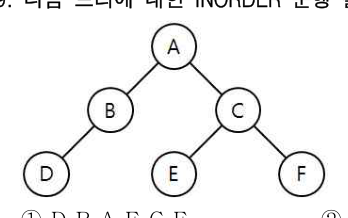
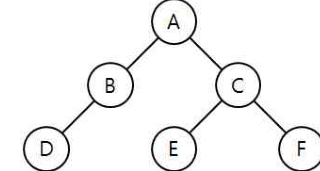
2018-2 자료 이미지 원본 정합성 보정

diff --git a/public/index.html b/public/index.html
@@ -8,8 +8,8 @@
   <meta name="apple-mobile-web-app-status-bar-style" content="black-translucent">
   <meta name="theme-color" content="#0f1117" id="meta-theme-color">
   <title>정보처리기사 필기 CBT</title>
-  <link rel="stylesheet" href="/css/style.css?v=26-07-26-10">
-  <link rel="stylesheet" href="/vendor/katex/katex.min.css?v=26-07-26-10">
+  <link rel="stylesheet" href="/css/style.css?v=26-07-26-11">
+  <link rel="stylesheet" href="/vendor/katex/katex.min.css?v=26-07-26-11">
   <script>
     // 테마 깜빡임 방지: JS 로드 전에 테마 적용
     (function() {
@@ -39,14 +39,14 @@
     <span>학습용 - 본인 학습 목적으로만 사용하세요</span>
     <span id="app-version" class="app-version"></span>
   </footer>
-  <script src="/vendor/katex/katex.min.js?v=26-07-26-10"></script>
-  <script src="/vendor/katex/auto-render.min.js?v=26-07-26-10"></script>
-  <script src="/js/storage.js?v=26-07-26-10"></script>
-  <script src="/js/util.js?v=26-07-26-10"></script>
-  <script src="/js/router.js?v=26-07-26-10"></script>
-  <script src="/js/wrong-export.js?v=26-07-26-10"></script>
-  <script src="/js/views.js?v=26-07-26-10"></script>
-  <script src="/js/exam.js?v=26-07-26-10"></script>
-  <script src="/js/main.js?v=26-07-26-10"></script>
+  <script src="/vendor/katex/katex.min.js?v=26-07-26-11"></script>
+  <script src="/vendor/katex/auto-render.min.js?v=26-07-26-11"></script>
+  <script src="/js/storage.js?v=26-07-26-11"></script>
+  <script src="/js/util.js?v=26-07-26-11"></script>
+  <script src="/js/router.js?v=26-07-26-11"></script>
+  <script src="/js/wrong-export.js?v=26-07-26-11"></script>
+  <script src="/js/views.js?v=26-07-26-11"></script>
+  <script src="/js/exam.js?v=26-07-26-11"></script>
+  <script src="/js/main.js?v=26-07-26-11"></script>
 </body>
 </html>

diff --git a/정보처리기사CBT_지침체계/08_운영기록/changelog.md b/정보처리기사CBT_지침체계/08_운영기록/changelog.md
@@ -105,3 +105,4 @@
 | 2026-07-26 | GitHub main·Vercel 프로덕션 | 현행 소스 재배포를 위해 버전 `26-07-26-8`로 갱신. 일반 `npm run deploy` 배포 `dpl_344eNsPfCW9Sqf9Zs4dGRaEcDJte`가 4분 이상 Building에 정체되어 운영 alias가 없는 상태에서 `vercel rm --safe --yes`로 제거했고, `vercel build --prod --yes` + `vercel deploy --prebuilt --prod --yes`로 prebuilt 프로덕션 배포 `dpl_9ikd4Hy8gmRyUrFQzgXTZKuigqf9` 성공. 운영 별칭에서 `/version.json` `26-07-26-8`, 회차 29·유형 5, 2016-2 100문항, 오류 로그 0건 확인 | 사용자 지시("배포 후 다음 진행")의 선행 배포 이행 및 멈춘 비활성 배포 제거 기록 | — |
 | 2026-07-26 | data/exam_2018-1.json, public/images/2018-1_q82.png, GitHub main·Vercel 프로덕션 | 2018년 1회 PDF 자동 후보·육안 확정 문항 보정: Q15 `폴링`, Q21 `부동 소수점`·`fixed point data`, Q22 마이크로오퍼레이션 줄바꿈·화살표, Q24 `클록`, Q33 수식 보기, Q37 화살표, Q44 `<Task List>` 표 제목·SJF 해설, Q51 원문 `??`, Q59 `ls`·`fsck`, Q82 이미지 혼입 제거, Q89 `SMTP` 정정. 공식 정답표 100/100 일치, 표 평탄화 후보 0건, 전체 JSON·이미지 경로·API·Node 테스트 통과. 버전 `26-07-26-9` prebuilt 배포 `dpl_AkjsLxXzVMcdTUEeTmjK3S6zWoiE` 완료, 운영 별칭에서 `/version.json`, 2018-1 100문항, Q59·Q44·Q82, 오류 로그 0건 확인. 단, 2018-1 전체 문자 단위 전수 대조는 미완료 | 사용자 지시("배포 후 다음 진행")에 따른 2단계 다음 단위 실행 | 검수보고_2026-07-26_2018-1_확정후보_자료정답원본보정 |
 | 2026-07-26 | data/exam_2018-1.json, 08_운영기록/검수보고 | 2018년 1회 100문항을 PDF 1~6쪽 좌·우 칼럼 재구성 텍스트와 자동 대조하고 PDF 렌더 이미지로 확정 후보를 확인. Q24 `동시 액세스`, Q32 `태스크`, Q37 단서, Q45 `명령은?`, Q56 보기 ④, Q59·Q60 `디렉터리`, Q64 자료 bullet, Q65 `검사 자료`, Q83 `전송할 데이터`, Q87 `논리 주소를 가지고`, Q98 `재전송이 가능`을 원본에 맞게 정정하고 Q45·Q60·Q64 해설을 보완. 수정 후 자동 후보는 Q10 중간점 코드와 Q33 수식 표현 5건만 남아 정상 판단. 공식 정답표 100/100, 전체 JSON·표 평탄화 후보·Node 테스트·로컬 API 통과. 배포는 수행하지 않음 | 사용자 지시("다음진행")에 따른 2018-1 추가 원문·보기 대조 | 검수보고_2026-07-26_2018-1_100문항_원문보기자동대조 |
+| 2026-07-26 | public/images/2018-2_q6.png·q19.png, 08_운영기록/검수보고 | 2018년 2회 100문항을 PDF 1~6쪽 좌·우 칼럼 재구성 텍스트와 정답표로 대조. 원문·보기 실제 불일치 0건, 정답 불일치 0건, Q42·Q45 HTML 표 셀 누락 0건 확인. Q6·Q19 이미지에 섞인 문제 문장·보기 일부를 제거해 트리 그림만 남김. 표 평탄화 후보 0건, 전체 이미지 경로·Node 테스트·로컬 API 통과. 배포는 수행하지 않음 | 사용자 지시("배포 후 다음진행")에 따른 2단계 다음 파일 단위 실행 | 검수보고_2026-07-26_2018-2_100문항_원문정답자료검수 |

diff --git a/정보처리기사CBT_지침체계/08_운영기록/검수보고_2026-07-26_2018-2_100문항_원문정답자료검수.md b/정보처리기사CBT_지침체계/08_운영기록/검수보고_2026-07-26_2018-2_100문항_원문정답자료검수.md
@@ -1,0 +1,51 @@
+# 검수보고_2026-07-26_2018-2_100문항_원문정답자료검수
+
+## 1. 검수 범위
+
+- 원본 PDF: `정보처리기사 문제/2018년2회_기사필기_기출문제.pdf`
+- 대상 데이터: `data/exam_2018-2.json`
+- 대상 이미지: `public/images/2018-2_q6.png`, `public/images/2018-2_q19.png`
+- 검수 대상: Q1~Q100의 `stem`, `options`, `answer`, 표·이미지 연결
+- 배포 여부: 이번 보고 단위에서는 배포하지 않음
+
+## 2. 검수 방법
+
+1. PDF 1~7쪽을 PNG로 렌더링했다.
+2. PDF 1~6쪽을 `pdfplumber`로 좌·우 칼럼 분리 추출해 Q1~Q100 문항 블록을 재구성했다.
+3. JSON의 `stem`, 4개 `options`를 PDF 추출 블록과 자동 비교했다.
+4. PDF 마지막 정답표에서 Q1~Q100 정답을 추출해 JSON `answer`와 비교했다.
+5. 표 평탄화 후보 검사를 실행해 원본 표가 JSON 평문으로만 남은 후보가 있는지 확인했다.
+6. Q6, Q19 그림 문항과 Q42, Q45 표 문항은 PDF 렌더 이미지로 육안 확인했다.
+
+## 3. 정정 사항
+
+| 문항 | 정정 내용 | 근거 |
+|---:|---|---|
+| Q6 | 이미지에서 문제 문장 일부와 보기 일부를 제거하고 트리 그림만 남김 | PDF 1쪽 Q6, 앱은 `stem`과 `options`를 별도 렌더링 |
+| Q19 | 이미지에서 문제 문장 일부와 보기 일부를 제거하고 트리 그림만 남김 | PDF 2쪽 Q19, 앱은 `stem`과 `options`를 별도 렌더링 |
+
+## 4. 원문·정답 대조 결과
+
+- PDF 문항 블록 추출: 100개
+- PDF 정답표 추출: 100개
+- 노이즈 제거 후 `stem`/`options` 실제 불일치: 0건
+- 정답 불일치: 0건
+- Q42 HTML 표: PDF 표 셀 15개와 JSON 표 셀 일치, 누락 0건
+- Q45 HTML 표: PDF 표 셀 12개와 JSON 표 셀 일치, 누락 0건
+- `node scripts/audit_plaintext_table_candidates.js --show-known data/exam_2018-2.json`: 미확인 후보 0건, 확인 완료 정상 예외 Q30 1건
+
+## 5. 검수 결과
+
+- `npm test`: 4개 통과
+- `node scripts/audit_plaintext_table_candidates.js --fail-on-candidates`: 후보 0건
+- 전체 34개 데이터 파일·3,568문항 이미지 경로 검사: 누락 0건
+- 로컬 API `2018-2`: 100문항 응답
+- 로컬 정적 이미지 응답:
+  - `/images/2018-2_q6.png`: HTTP 200
+  - `/images/2018-2_q19.png`: HTTP 200
+- Q6/Q19 변경 후 이미지 육안 검수: 트리 그림만 표시, 주변 지문·보기 혼입 제거 확인
+
+## 6. 확인 필요·한계
+
+- 브라우저 자동 화면 검사는 수행하지 못했다. 로컬 API와 정적 이미지 응답, PNG 육안 검수로 대체했다.
+- 이번 단위는 새 로컬 변경을 만들었으나 아직 커밋·푸시·배포하지 않았다.
